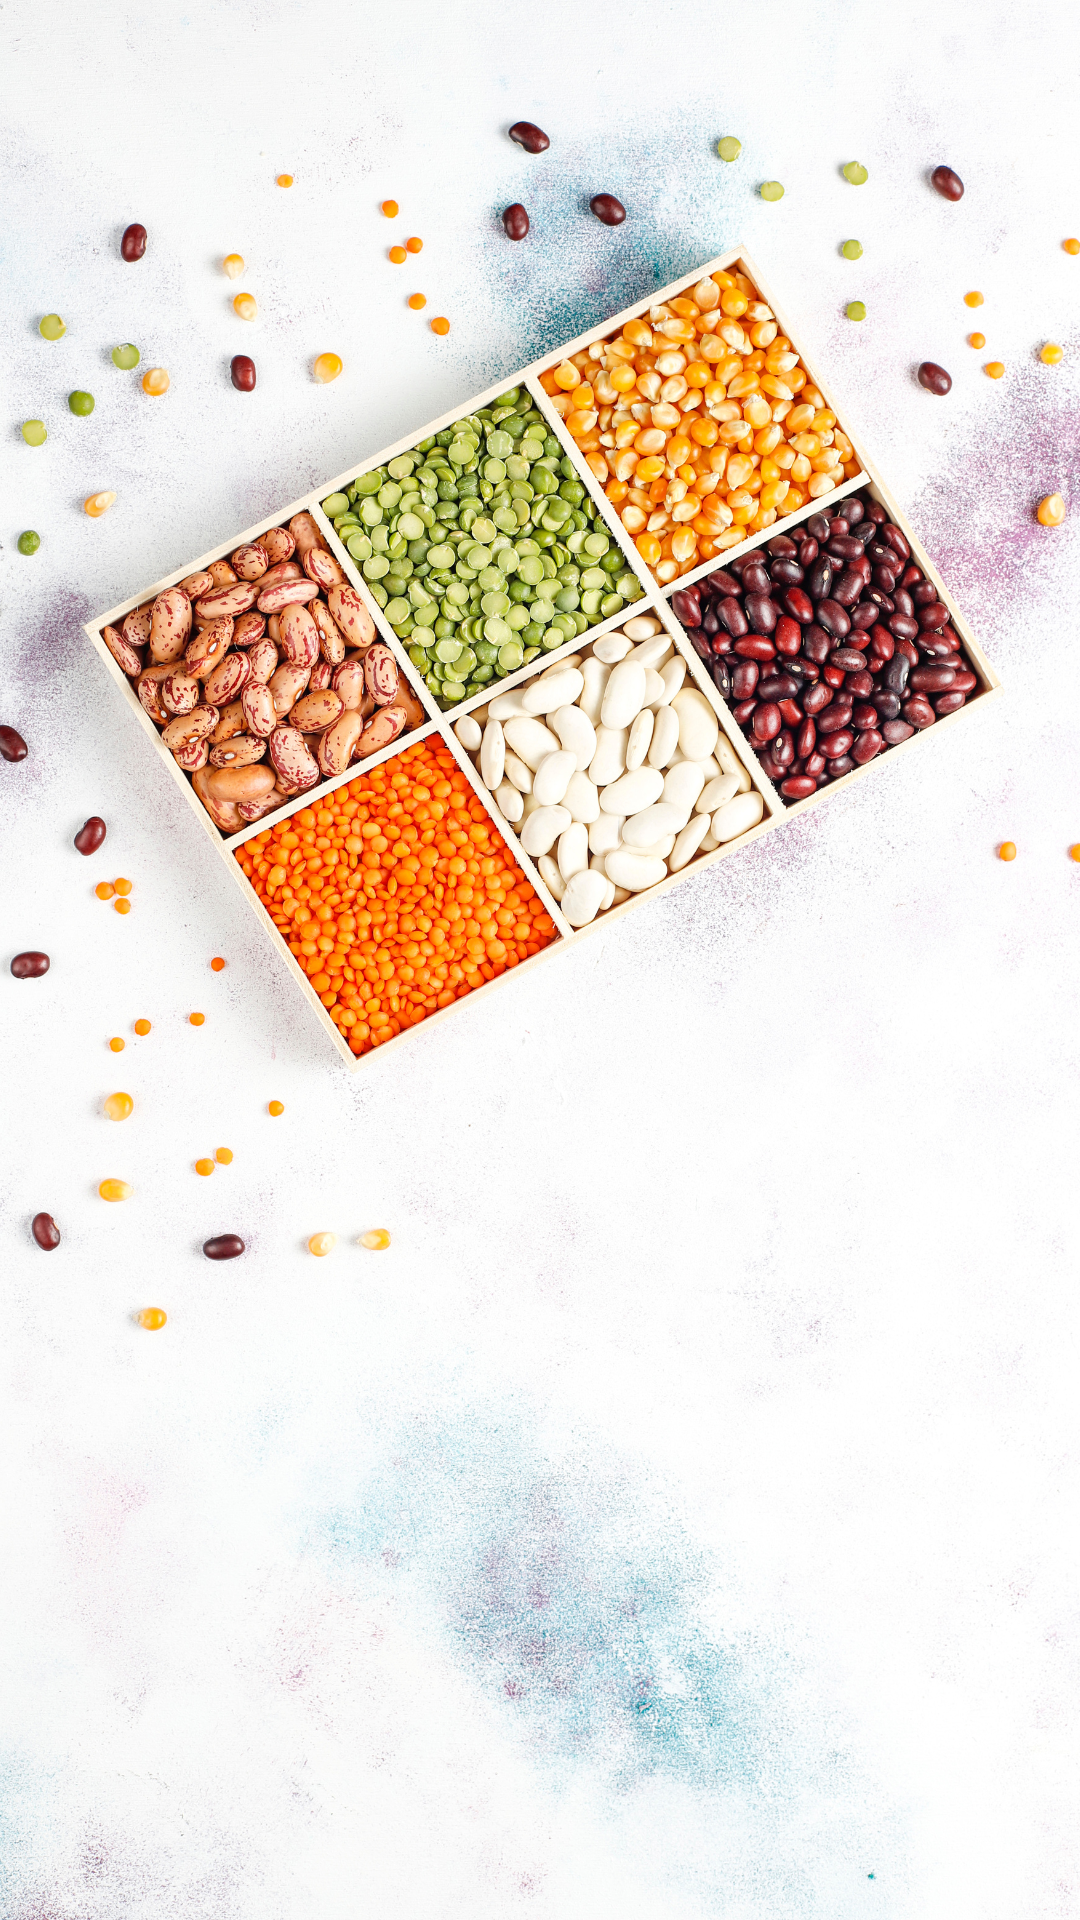
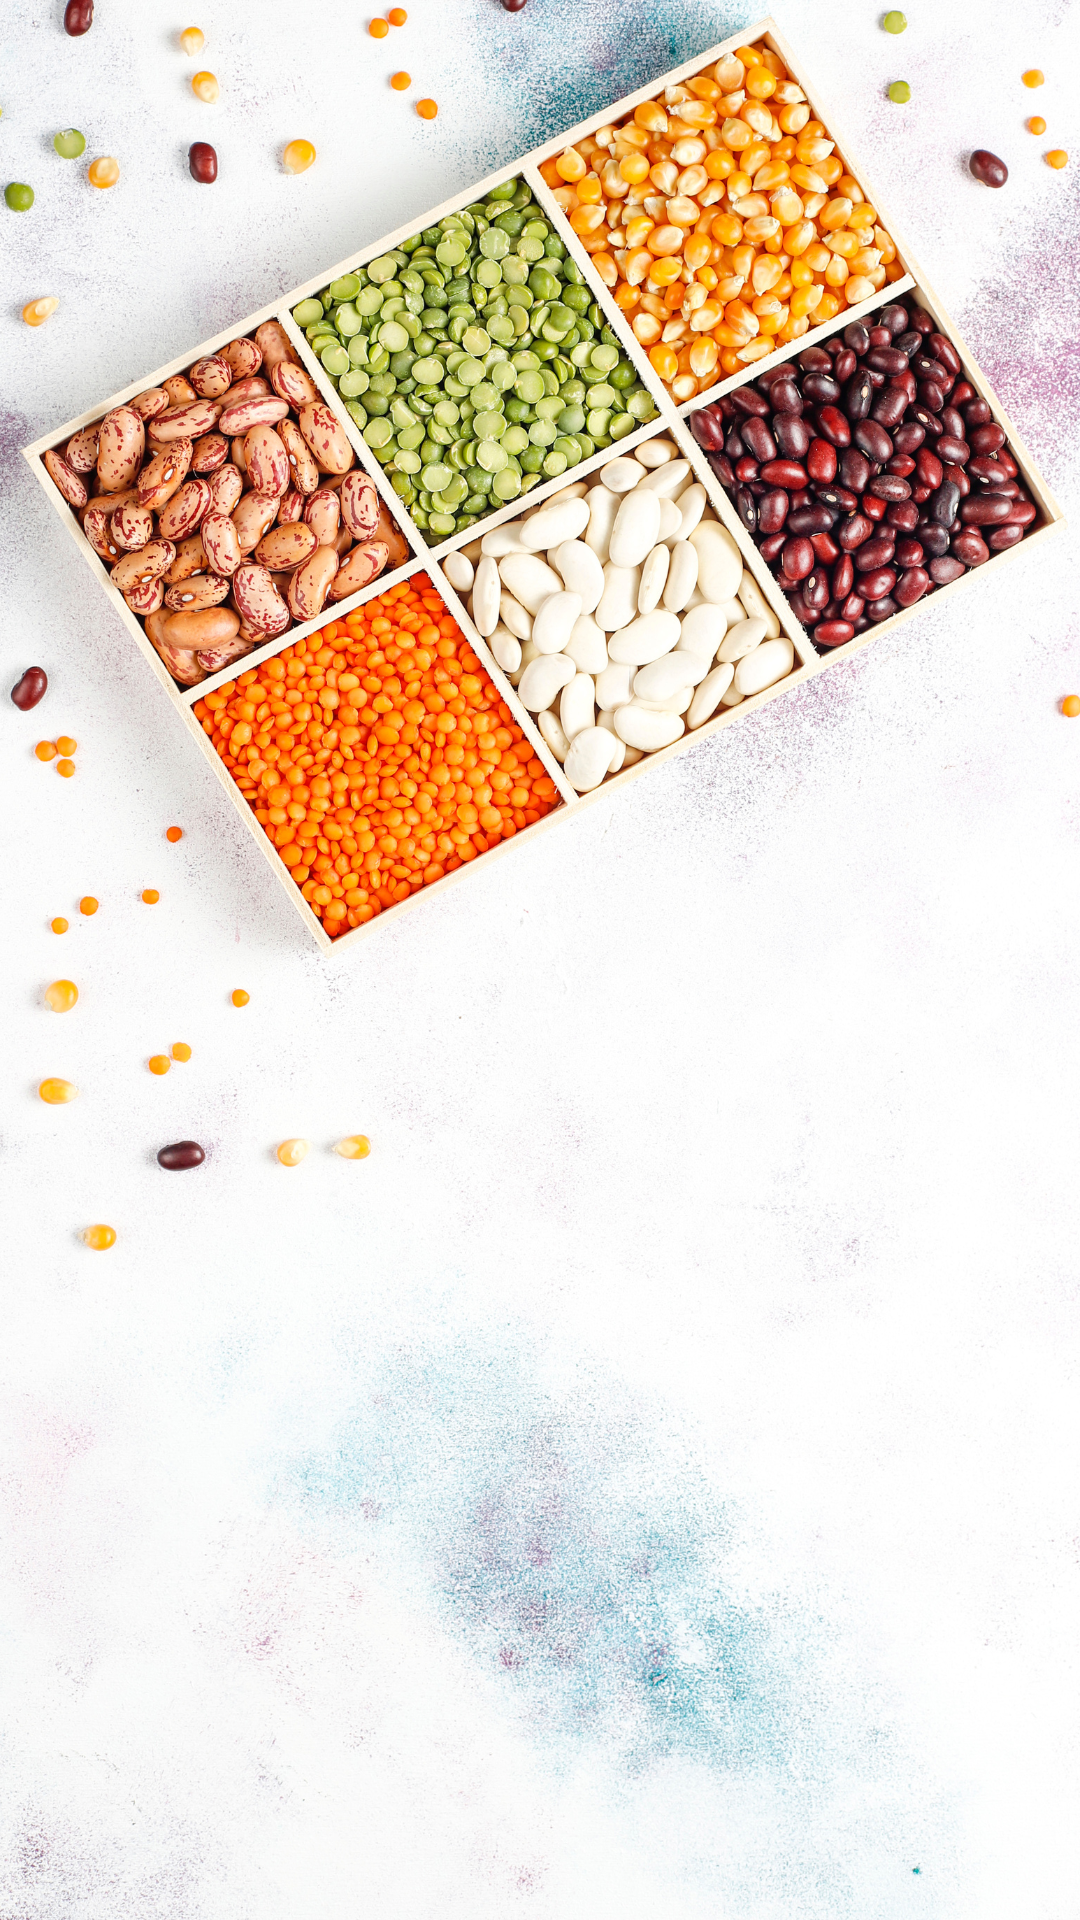
Stable

diff --git a/components/custom/herobanner/herobanner.tsx b/components/custom/herobanner/herobanner.tsx
@@ -12,7 +12,7 @@ export default function UniqueHeroWithSidebar() {
   return (
     <div className="bg-[url('/banner/home-hero-mob.png')] bg-top bg-cover xl:bg-[url('/banner/home-hero.jpg')] xl:bg-center xl:bg-cover min-h-full relative overflow-hidden border-b-[1px] border-gray-600">
       <Grid size={0} />
-      <div className="min-h-[90vh] max-h-[700px] mx-auto relative flex align-end justify-end flex-col md:flex-row bg-center bg-cover bg-[rgba(0,0,0,0)] pt-0">
+      <div className="min-h-[84vh] max-h-[700px] mx-auto relative flex align-end justify-end flex-col md:flex-row bg-center bg-cover bg-[rgba(0,0,0,0)] pt-0">
         <div className="block sm:hidden sm:px-4 mb-4 sm:mb-0">
           <div className="bg-[url('/banner/home-hero.jpg')] bg-cover bg-center h-60 w-full rounded-0 hidden"></div>
         </div>
